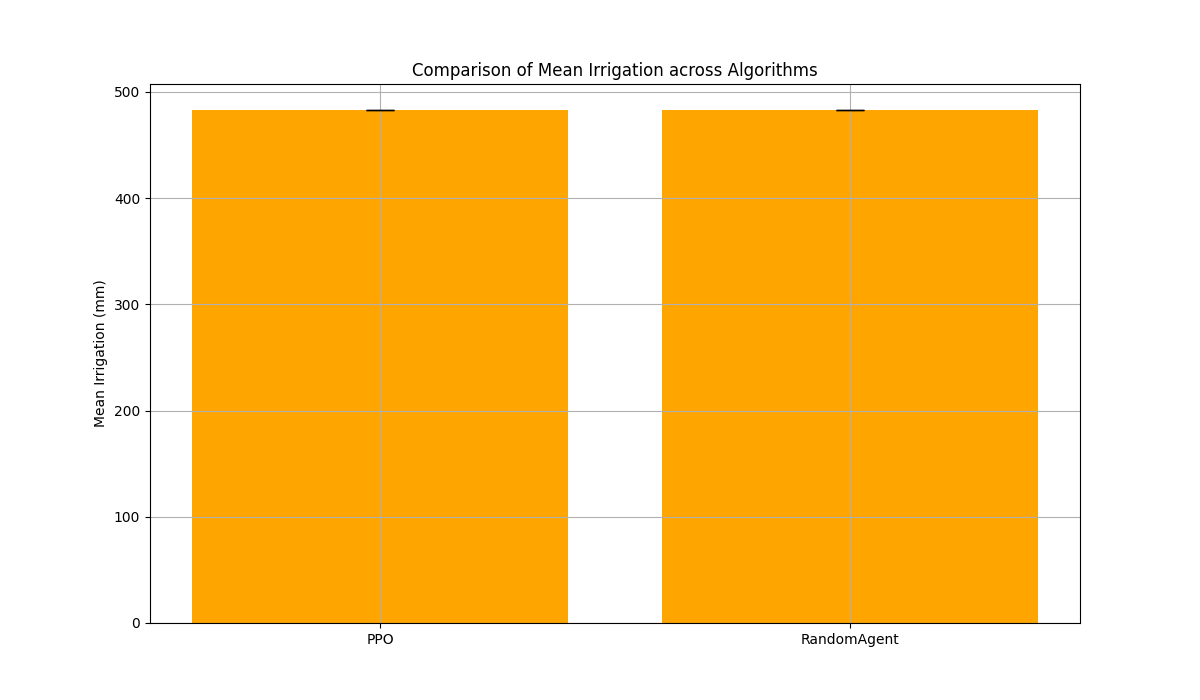
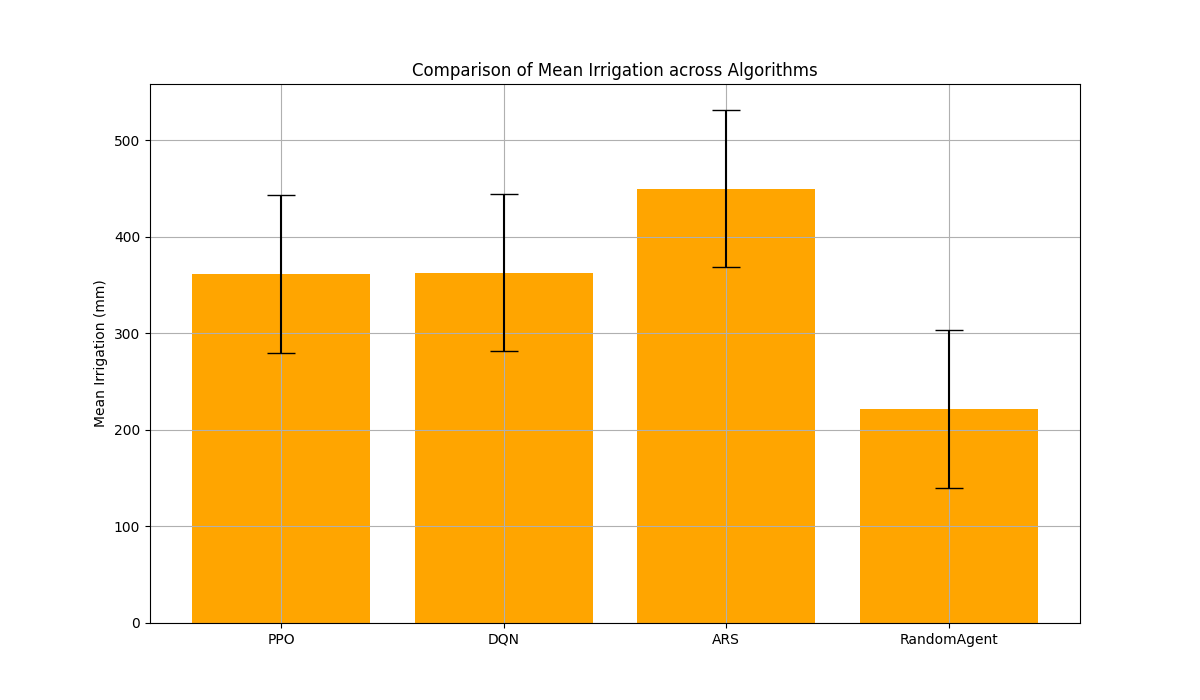
back to biomass reward +  water efficiency

diff --git a/train2.py b/train2.py
@@ -27,15 +27,21 @@ class RewardLoggingCallback(BaseCallback):
         self.best_schedule = []
         self.yields = []  # To store yield values for each episode
         self.irrigations = []  # To store irrigation values for each episode
+        self.losses = []  # Track losses per episode
 
     def _on_step(self) -> bool:
         if 'rewards' in self.locals:
             mean_reward = np.mean(self.locals['rewards'])
             self.current_rewards += mean_reward
 
+        # Access loss if available (specific to PPO or similar models)
+        if 'loss' in self.locals:
+            loss = self.locals['loss']
+            self.losses.append(loss)  # Track the loss at each step
+
         if 'dones' in self.locals and any(self.locals['dones']):
             env = self.locals['env'].envs[0]
-            info = self.locals['infos'][0]  # Access the info dictionary from the environment
+            info = self.locals['infos'][0]
 
             dry_yield = info.get('dry_yield', float('nan'))
             total_irrigation = info.get('total_irrigation', float('nan'))
@@ -45,8 +51,6 @@ class RewardLoggingCallback(BaseCallback):
 
                 self.yields.append(dry_yield)
                 self.irrigations.append(total_irrigation)
-            else:
-                print("Final stats not available or contain NaN values.")
 
             self.episode_rewards.append(self.current_rewards)
             self.episode_schedules.append(env.unwrapped.irrigation_schedule)
@@ -65,8 +69,8 @@ class RewardLoggingCallback(BaseCallback):
     def _on_training_end(self):
         self.plot_rewards()
         self.plot_irrigation_schedule()
+        self.plot_loss()
 
-        # Calculate and log mean yield and irrigation at the end of training
         if self.yields and self.irrigations:
             mean_yield = np.mean(self.yields)
             mean_irrigation = np.mean(self.irrigations)
@@ -100,6 +104,18 @@ class RewardLoggingCallback(BaseCallback):
             print("Irrigation schedule plot saved as best_irrigation_schedule_plot.png")
         else:
             print("No irrigation schedule found for any episode.")
+
+    def plot_loss(self):
+        if len(self.losses) > 0:
+            plt.figure(figsize=(10, 5))
+            plt.plot(range(len(self.losses)), self.losses)
+            plt.xlabel('Steps')
+            plt.ylabel('Loss')
+            plt.title('Training Loss over Time')
+            plt.savefig('loss_plot.png')
+            print("Loss plot saved as loss_plot.png")
+        else:
+            print("No loss values found during training.")
 
 # Initialize Comet.ml experiment in offline mode
 experiment = OfflineExperiment(

diff --git a/aquacroprice/envs/maize.py b/aquacroprice/envs/maize.py
@@ -188,8 +188,13 @@ class Maize(gym.Env):
             dry_yield = self.model._outputs.final_stats['Dry yield (tonne/ha)'].mean()
             total_irrigation = self.model._outputs.final_stats['Seasonal irrigation (mm)'].mean()
             
-            # Optionally, add the final dry yield to the reward for overall yield optimization
-            reward += dry_yield
+            if total_irrigation > 0:
+                irrigation_efficiency = dry_yield / total_irrigation
+            else:
+                irrigation_efficiency = 0  # Avoid division by zero
+        
+            # Add the irrigation efficiency to the reward
+            reward += irrigation_efficiency
             
             print(f"Dry Yield: {dry_yield}")
             print(f"Total Irrigation: {total_irrigation}")

diff --git a/train3.py b/train3.py
@@ -128,7 +128,7 @@ train_env = DummyVecEnv([lambda: Monitor(Wheat(mode='train', year1=1982, year2=2
 reward_logging_callback = RewardLoggingCallback(experiment)
 
 # Training parameters (shared among algorithms)
-train_timesteps = 10000
+train_timesteps = 20000
 
 # Define algorithms and hyperparameters with exploration encouragement
 algorithms = {
